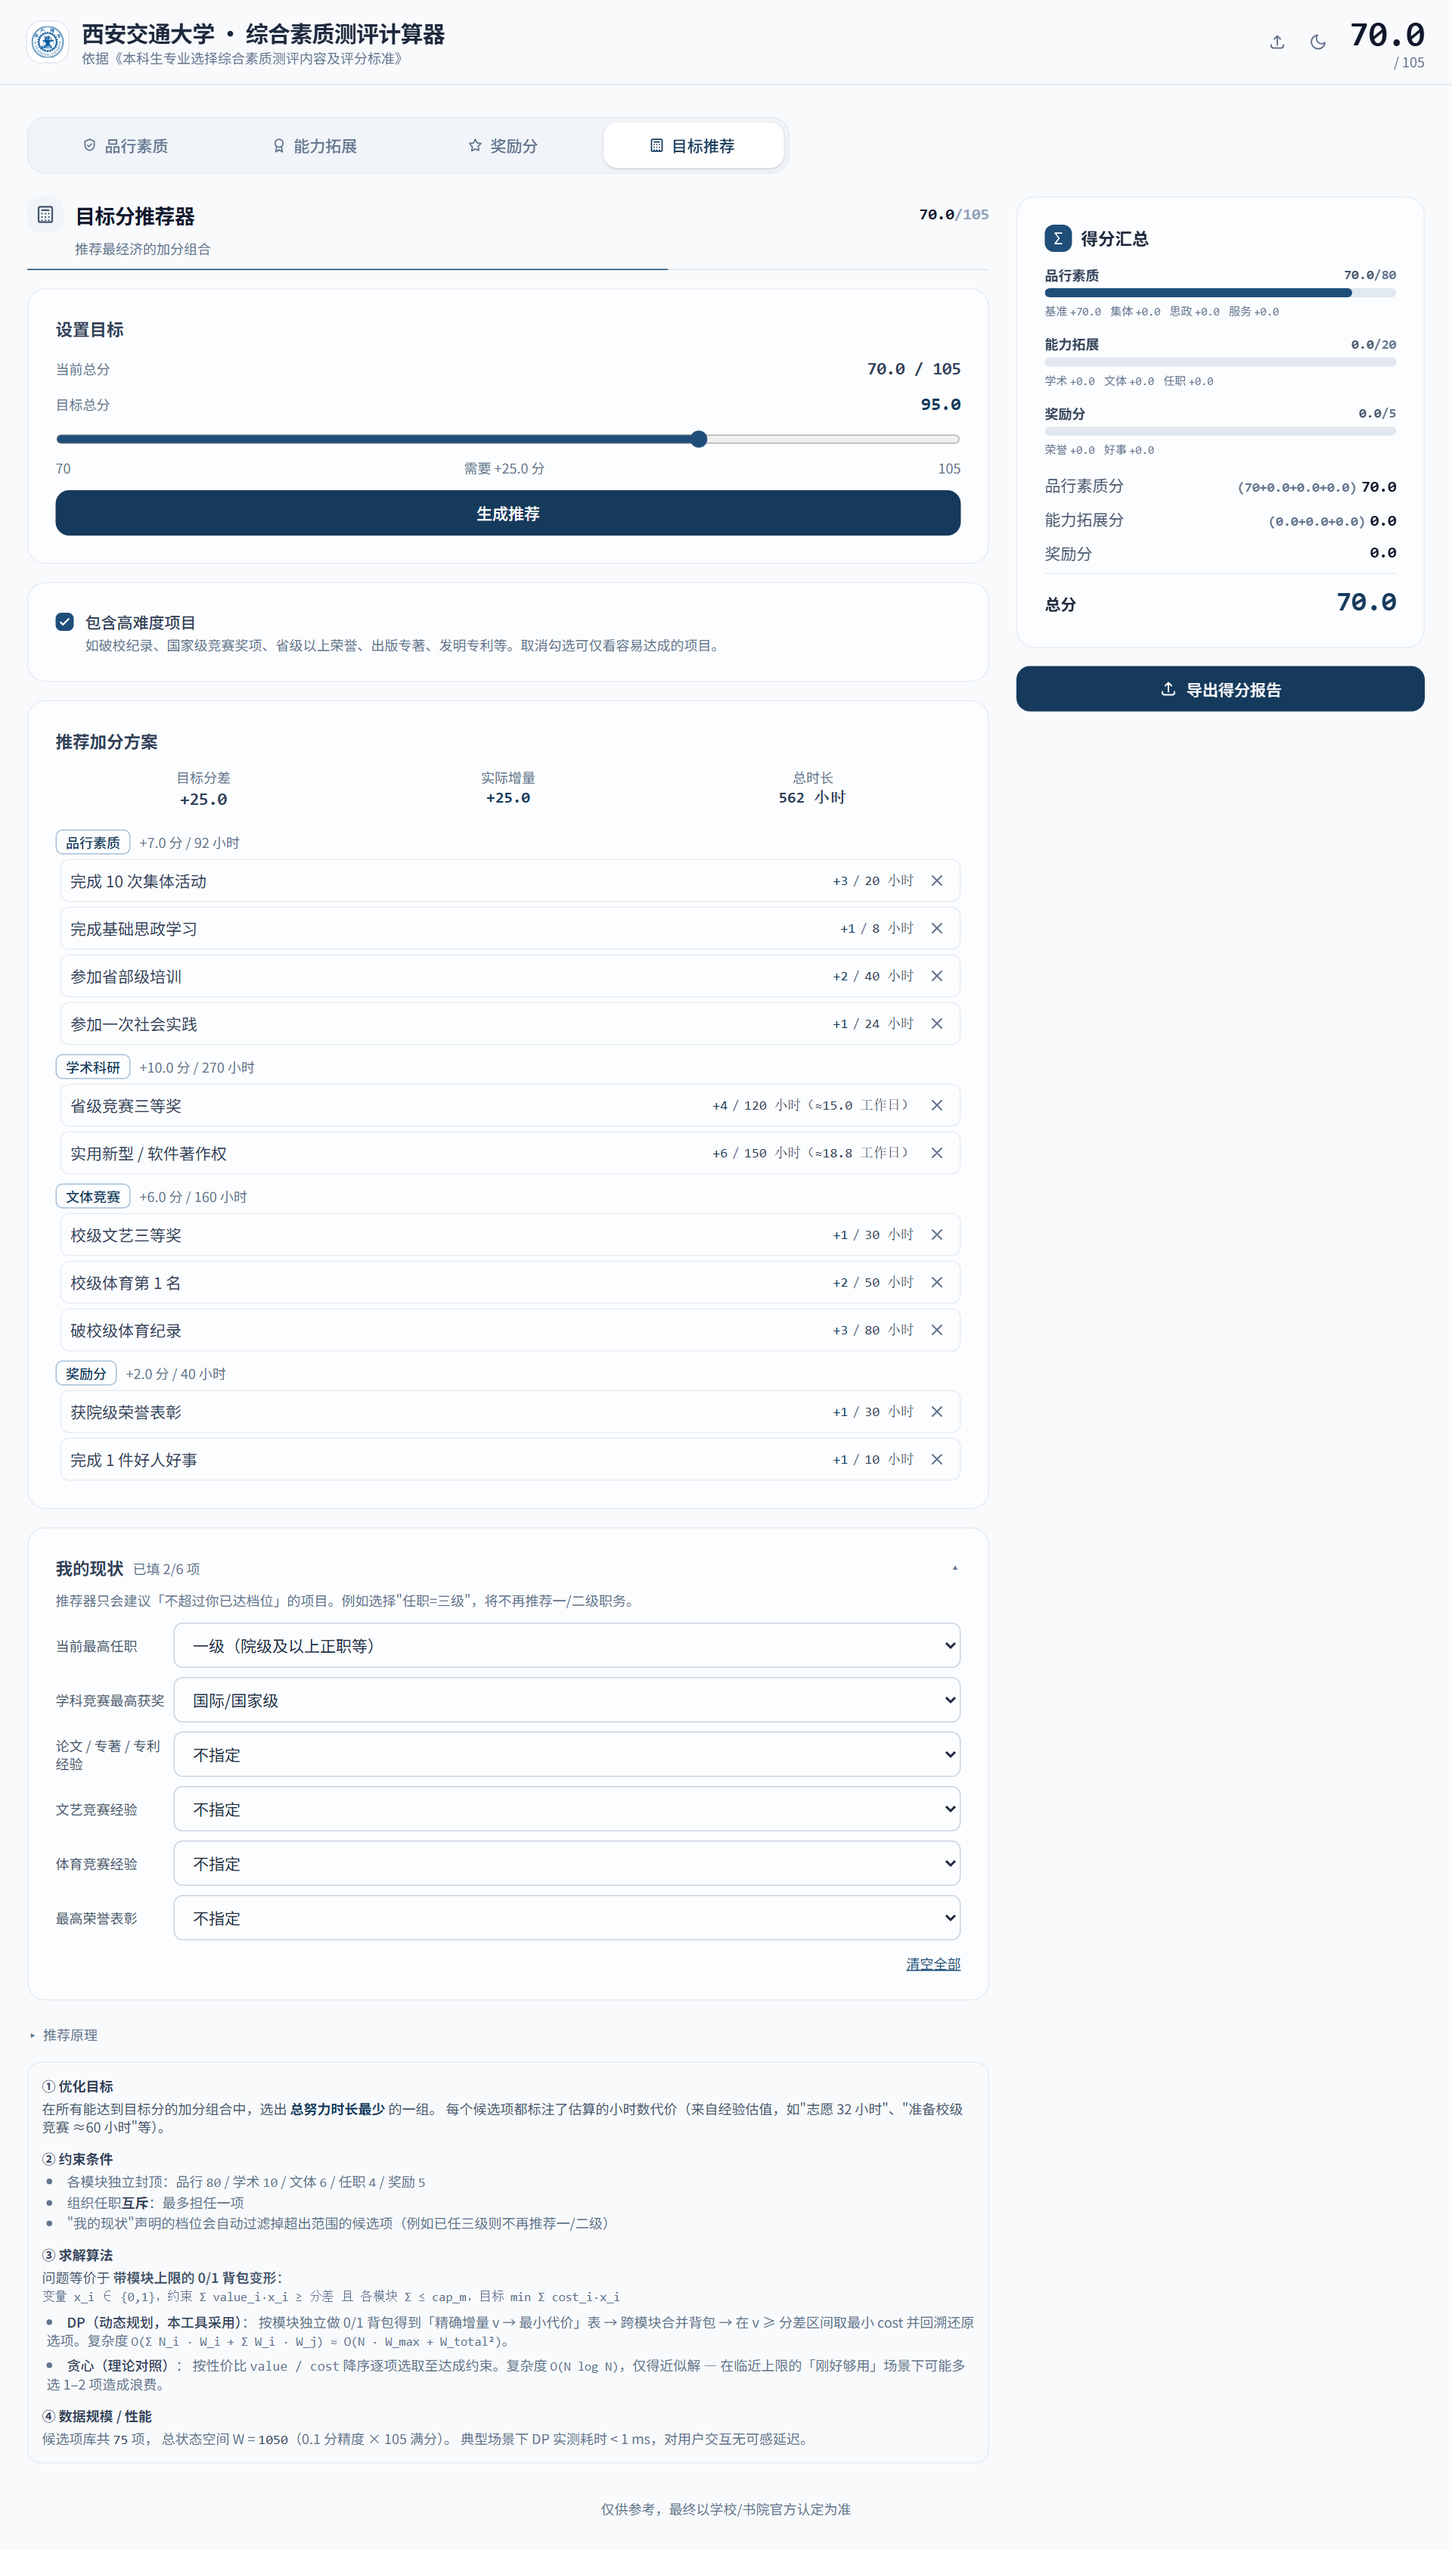
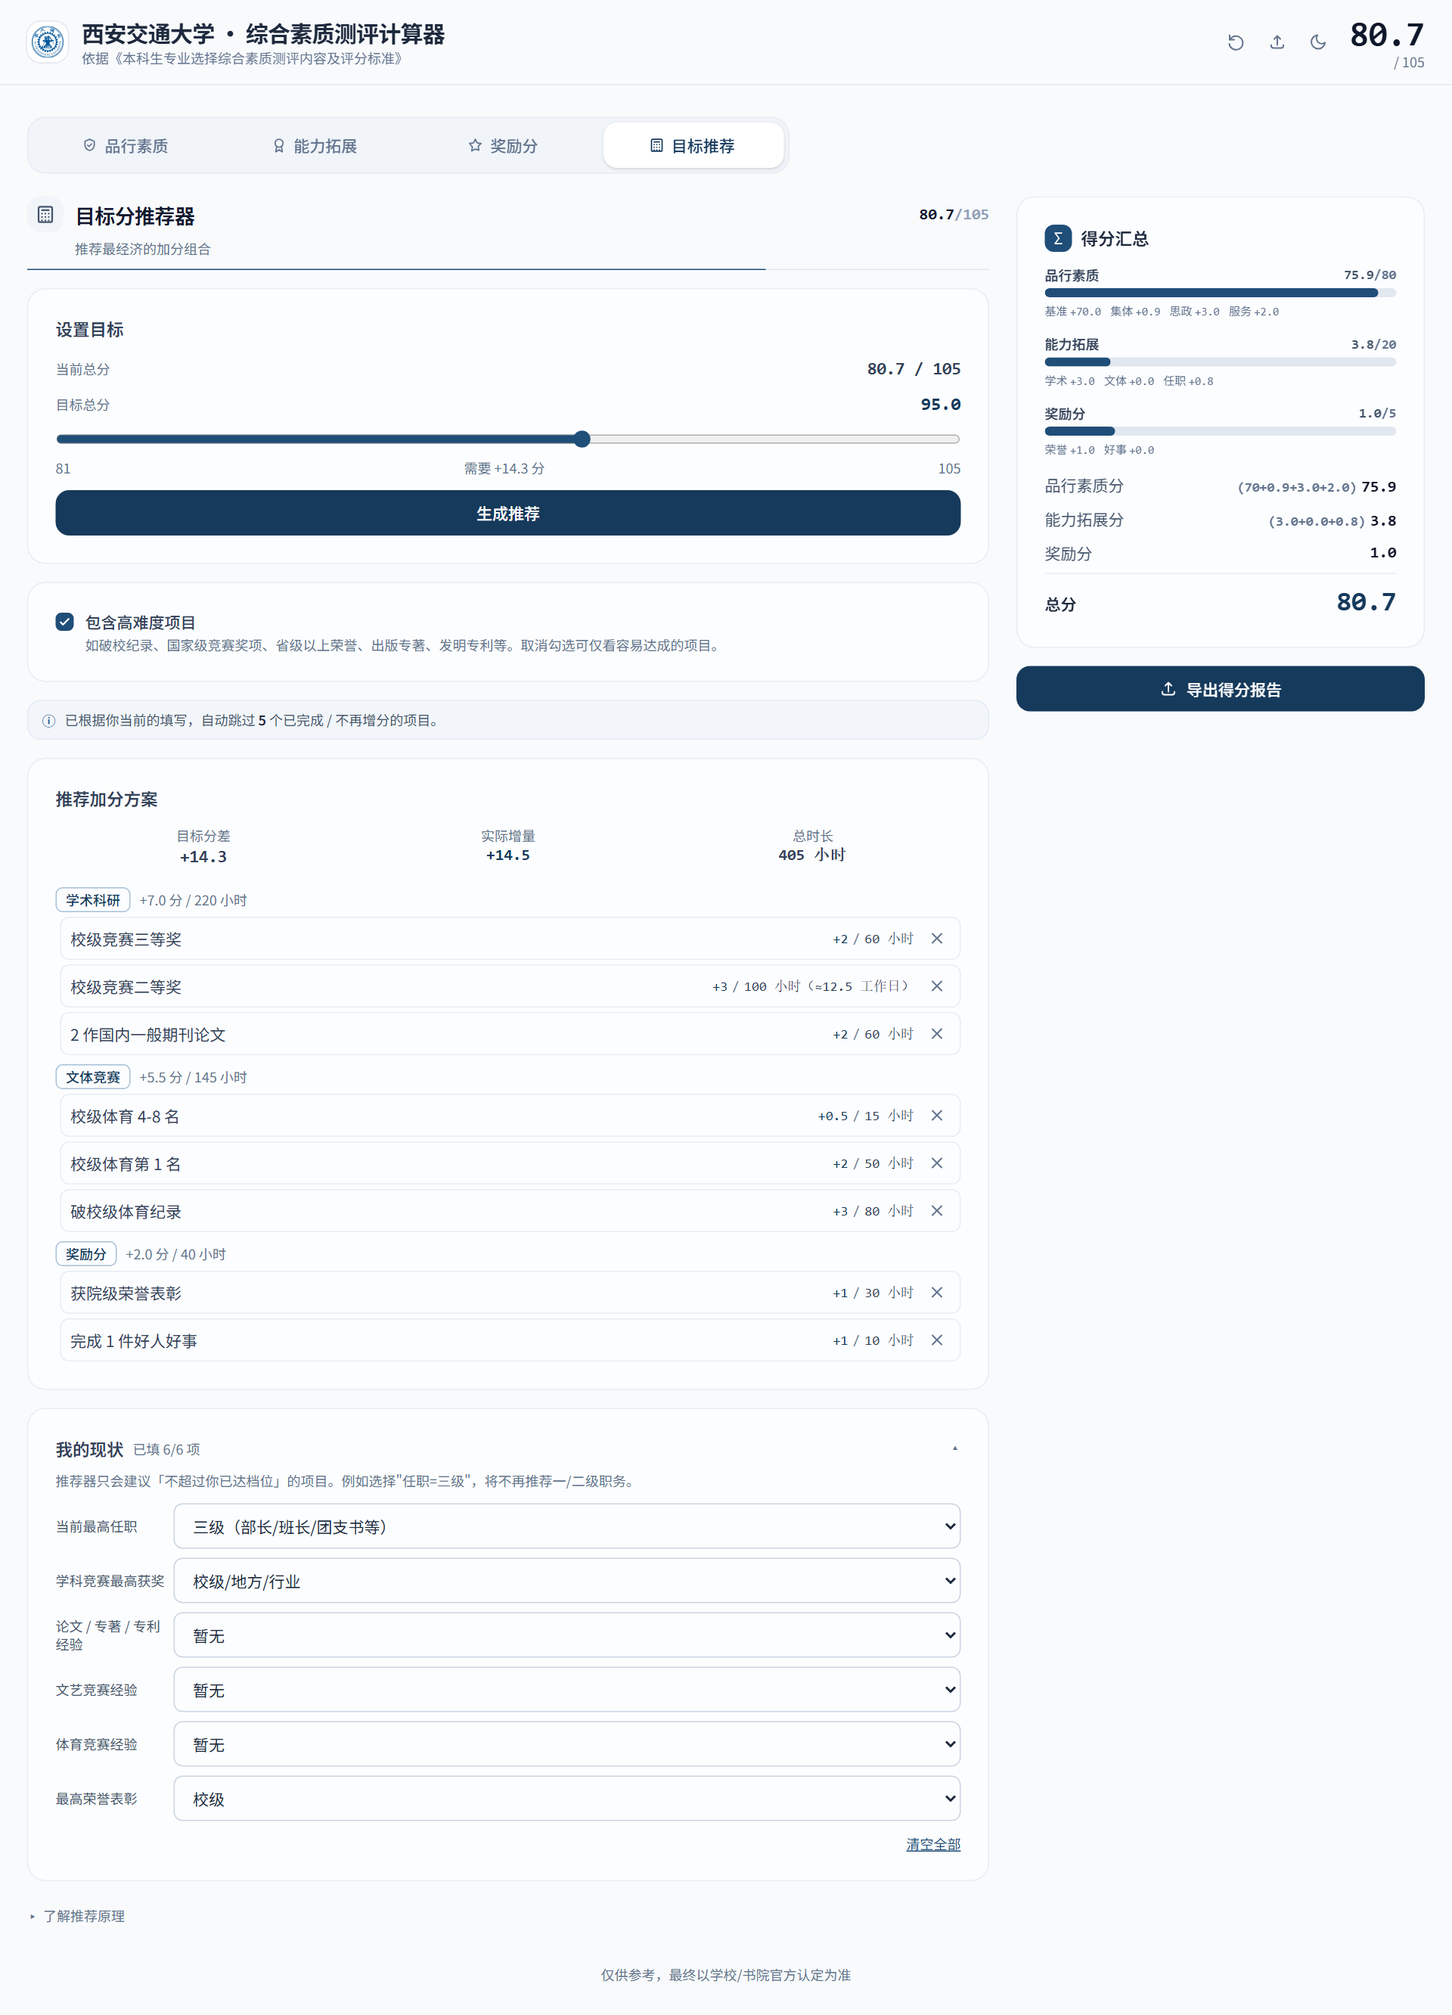
docs: 更新 README 与首图——同步证书式导出、主题自动跟随、交互动效与重置/回顶
- 「体验与导出」改写：修正已移除的"印章水印"描述，补充证书式评分图
  （环形仪表盘 + 三模块色卡片 + 逐项明细 + 横幅校徽 + 嵌入字体）、一键
  重置、主题自动跟随系统并实时切换、交互动效与回到顶部、reduced-motion。
- 项目结构补 ConfirmDialog.jsx / BackToTop.jsx / hooks/useCountUp.js，
  更新 App.jsx 行数与 useLocalStorage 说明。
- 重拍首图 public/screenshots/main.png：反映顶栏重置按钮、目标 95 分
  推荐方案（含逐项明细、count-up 落定）与已填的"我的现状"。

diff --git a/README.md b/README.md
@@ -28,20 +28,21 @@
 ### 评分计算
 - **三大评分模块**：品行素质（80）+ 能力拓展（20）+ 奖励分（5）= 满分 105
 - **实时计算**：所有输入即时反映到总分，自动处理上限封顶与组织任职互斥
-- **覆盖 docx 全档位**：竞赛优秀奖、特等奖、体育 4-8 名、破省级纪录、出版专著、发明专利、5 档荣誉表彰等
+- **覆盖全档位**：竞赛优秀奖、特等奖、体育 4-8 名、破省级纪录、出版专著、发明专利、5 档荣誉表彰等
 
 ### 目标分推荐器（算法实验内容）
 - **背包 DP 求解**：给定当前得分与目标分，反向求出**总时长最少**的加分组合
 - **难度分级**：每项候选标注 normal / hard / very-hard，可一键过滤高难度
-- **× 排除**：推荐结果中不想要的项目一键剔除，自动重新推荐，持久化到 localStorage
+- **一键排除**：推荐结果中不想要的项目一键剔除，自动重新推荐，持久化到 localStorage
 - **我的现状问卷**：6 维度声明（任职 / 学科竞赛 / 论文 / 文艺 / 体育 / 荣誉）后只推荐"不超过当前档位"的项目
 
 ### 体验与导出
-- **数据持久化**：自动保存到 localStorage，刷新不丢
+- **数据持久化**：自动保存到 localStorage，刷新不丢；支持**一键重置全部**（带确认弹窗）
 - **评分规则提示**：每项旁的 `?` 图标，hover / click 查看详细标准
 - **得分可视化**：三模块条形图直观展示提升空间
-- **导出 PNG / PDF**：精美评分报告，含 Logo、时间戳、印章水印
-- **深色模式 + 响应式**：自动跟随系统偏好，手机/桌面端均适配
+- **证书式评分图导出**：环形仪表盘 + 三模块色卡片 + **逐项明细**（每个得分项逐条列出）+ 横幅校徽 + 嵌入 Noto Sans SC 字体，可保存 PNG 或打印 / PDF
+- **主题自动跟随系统**：默认跟随系统深 / 浅色并**实时切换**，手动切换则记为偏好并持久化；手机 / 桌面端响应式适配
+- **细腻交互动效**：生成推荐后平滑滚动定位、分数 count-up 滚动、推荐项级联入场、结果高亮脉冲，配回到顶部悬浮按钮；全程尊重系统「减少动态效果」偏好
 
 ## 截图
 
@@ -127,7 +128,7 @@ npm test   # 等价于 node src/algorithms/recommender.test.js
 
 ```
 src/
-├── App.jsx                        # 主组件（状态管理 + 布局组合，~160 行）
+├── App.jsx                        # 主组件（状态管理 + 主题/重置/布局组合，~215 行）
 ├── index.css                      # Tailwind CSS 入口 + 自定义样式
 ├── main.jsx                       # React 应用入口
 ├── algorithms/                    # 算法层
@@ -146,8 +147,10 @@ src/
 │   ├── RuleTooltip.jsx            # 评分规则提示组件
 │   ├── ScoreChart.jsx             # 得分分布条形图
 │   ├── CollapsibleList.jsx        # 可折叠列表
-│   ├── ExportModal.jsx            # 导出弹窗 + Canvas 绘制
+│   ├── ExportModal.jsx            # 导出弹窗 + Canvas 证书式评分图绘制
+│   ├── ConfirmDialog.jsx          # 通用可访问确认弹窗（一键重置等）
 │   ├── ScoreSummary.jsx           # 得分汇总卡片
+│   ├── BackToTop.jsx              # 回到顶部悬浮按钮
 │   └── tabs/
 │       ├── ConductTab.jsx         # 品行素质
 │       ├── AbilityTab.jsx         # 能力拓展
@@ -155,7 +158,8 @@ src/
 │       └── RecommenderTab.jsx     # 目标分推荐器 UI
 └── hooks/
     ├── useScoreCalculator.js      # 评分计算逻辑
-    └── useLocalStorage.js         # 本地数据持久化 + 推荐器现状/排除项持久化
+    ├── useCountUp.js              # 数字 count-up 补间 Hook（reduced-motion 友好）
+    └── useLocalStorage.js         # 本地持久化（输入 + 推荐器现状/排除项 + 主题偏好）
 ```
 
 ## 技术栈
